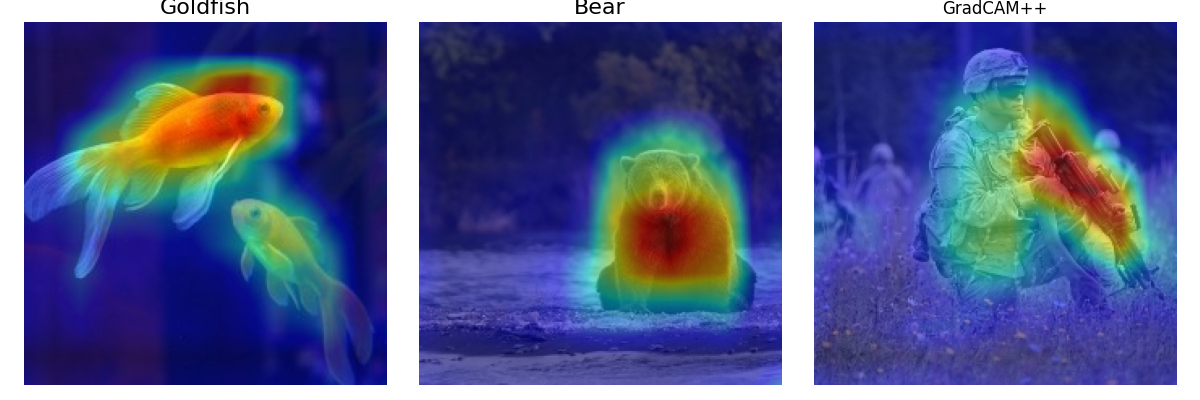
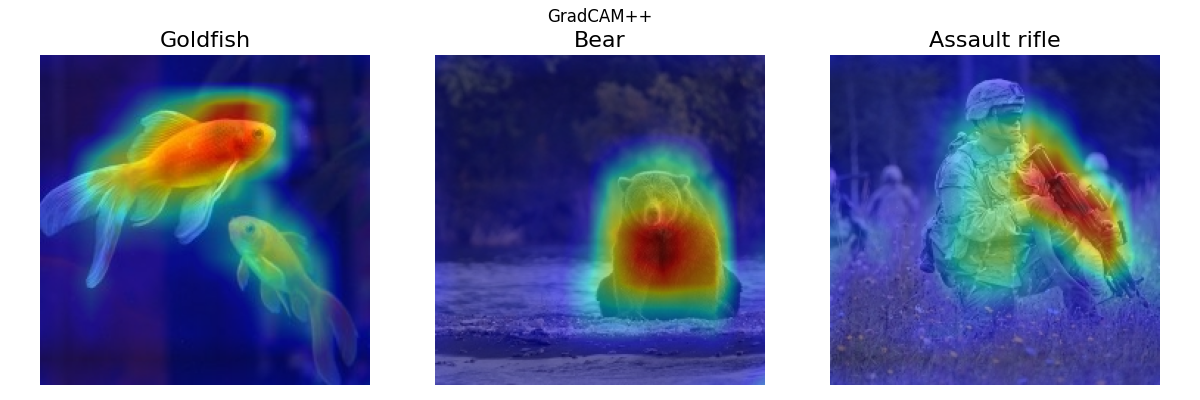
comments added

diff --git a/saliency/saliency.py b/saliency/saliency.py
@@ -42,7 +42,7 @@ for i, title in enumerate(image_titles):
     ax[i].set_title(title, fontsize=16)
     ax[i].imshow(images[i])
     ax[i].axis('off')
-    plt.title("Original images")
+    plt.suptitle("Original images")
 plt.tight_layout()
 plt.savefig('saliency/images/output/original_images.png')
 plt.show()
@@ -51,7 +51,8 @@ plt.show()
 #---------------------------------------------------------------------------------------------------
 print("Executing : Modifying model")
 
-#Don't use softmax
+#En linéarisant la dernière couche, nous supprimons les effets des fonctions 
+#d'activation pour obtenir une sortie brute qui représente les activations de chaque neurone dans cette couche. 
 from tf_keras_vis.utils.model_modifiers import ReplaceToLinear
 
 replace2linear = ReplaceToLinear()
@@ -65,6 +66,7 @@ def model_modifier_function(cloned_model):
 #---------------------------------------------------------------------------------------------------
 print("Executing : Creating score function")
 
+# CategoricalScore = accuracy
 from tf_keras_vis.utils.scores import CategoricalScore
 
 # 1 is the imagenet index corresponding to Goldfish, 294 to Bear and 413 to Assault Rifle.
@@ -102,9 +104,9 @@ for i, title in enumerate(image_titles):
     ax[i].set_title(title, fontsize=16)
     ax[i].imshow(saliency_map[i], cmap='jet')
     ax[i].axis('off')
+    plt.suptitle("Classic saliency")
 plt.tight_layout()
 plt.savefig('saliency/images/output/saliency_classic.png')
-plt.title("Classic saliency")
 plt.show()
 
 #---------------------------------------------------------------------------------------------------
@@ -125,9 +127,9 @@ for i, title in enumerate(image_titles):
     ax[i].set_title(title, fontsize=14)
     ax[i].imshow(saliency_map[i], cmap='jet')
     ax[i].axis('off')
+    plt.suptitle("SmoothGrad Saliency")
 plt.tight_layout()
 plt.savefig('saliency/images/output/saliency_smoothgrad.png')
-plt.title("SmoothGrad Saliency")
 plt.show()
 
 #---------------------------------------------------------------------------------------------------
@@ -157,9 +159,9 @@ for i, title in enumerate(image_titles):
     ax[i].imshow(images[i])
     ax[i].imshow(heatmap, cmap='jet', alpha=0.5) # overlay
     ax[i].axis('off')
+    plt.suptitle("GradCAM")
 plt.tight_layout()
 plt.savefig('saliency/images/output/GradCAM.png')
-plt.title("GradCAM")
 plt.show()
 
 #---------------------------------------------------------------------------------------------------
@@ -188,8 +190,8 @@ for i, title in enumerate(image_titles):
     ax[i].imshow(images[i])
     ax[i].imshow(heatmap, cmap='jet', alpha=0.5)
     ax[i].axis('off')
+    plt.suptitle("GradCAM++")
 plt.tight_layout()
-plt.title("GradCAM++")
 plt.savefig('saliency/images/output/gradcam_plus_plus.png')
 plt.show()
 
@@ -216,9 +218,9 @@ for i, title in enumerate(image_titles):
     ax[i].imshow(images[i])
     ax[i].imshow(heatmap, cmap='jet', alpha=0.5)
     ax[i].axis('off')
+    plt.suptitle("ScoreCAM")
 plt.tight_layout()
 plt.savefig('saliency/images/output/ScoreCAM.png')
-plt.title("ScoreCAM")
 plt.show()
 
 #---------------------------------------------------------------------------------------------------
@@ -246,9 +248,9 @@ for i, title in enumerate(image_titles):
     ax[i].imshow(images[i])
     ax[i].imshow(heatmap, cmap='jet', alpha=0.5)
     ax[i].axis('off')
+    plt.suptitle("Fast ScoreCAM")
 plt.tight_layout()
 plt.savefig('saliency/images/output/fast_ScoreCAM.png')
-plt.title("Fast ScoreCAM")
 plt.show()
 
 
